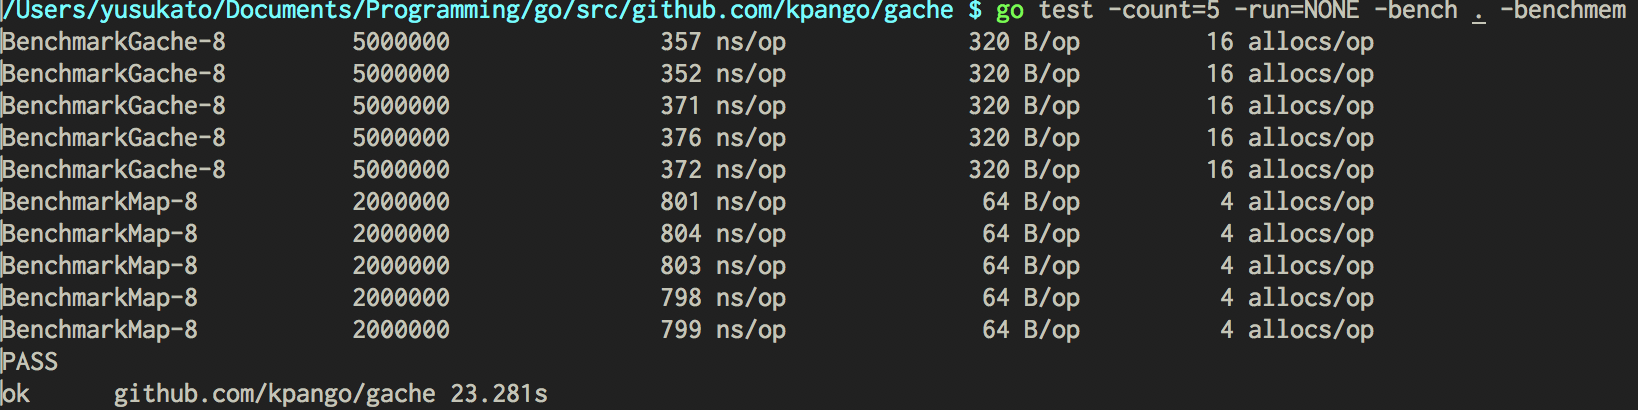
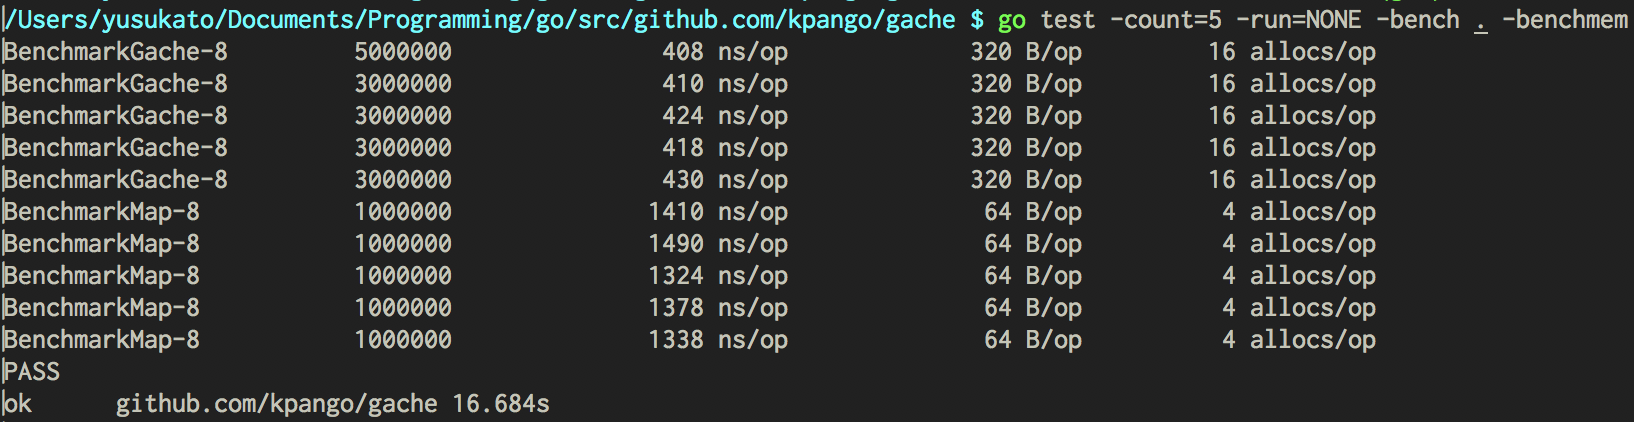
fix

diff --git a/gache_bench_test.go b/gache_bench_test.go
@@ -5,6 +5,35 @@ import (
 	"testing"
 )
 
+type DefaultMap struct {
+	mu   sync.RWMutex
+	data map[interface{}]interface{}
+}
+
+func NewDefault() *DefaultMap {
+	return &DefaultMap{
+		data: make(map[interface{}]interface{}),
+	}
+}
+
+func (m *DefaultMap) Get(key interface{}) (interface{}, bool) {
+	m.mu.RLock()
+	defer m.mu.RUnlock()
+	v, ok := m.data[key]
+
+	if !ok {
+		return nil, false
+	}
+
+	return v, true
+}
+
+func (m *DefaultMap) Set(key, val interface{}) {
+	m.mu.Lock()
+	defer m.mu.Unlock()
+	m.data[key] = val
+}
+
 var (
 	data = map[string]interface{}{
 		"string": "aaaa",
@@ -37,19 +66,14 @@ func BenchmarkGache(b *testing.B) {
 }
 
 func BenchmarkMap(b *testing.B) {
-	m := make(map[interface{}]interface{})
-	var mu sync.RWMutex
+	m := NewDefault()
 	b.ResetTimer()
 	b.RunParallel(func(pb *testing.PB) {
 		for pb.Next() {
 			for k, v := range data {
-				mu.Lock()
-				m[k] = v
-				mu.Unlock()
+				m.Set(k, v)
 
-				mu.RLock()
-				val, ok := m[k]
-				mu.RUnlock()
+				val, ok := m.Get(k)
 				if !ok {
 					b.Errorf("Gache Get failed key: %v\tval: %v\n", k, v)
 				}
